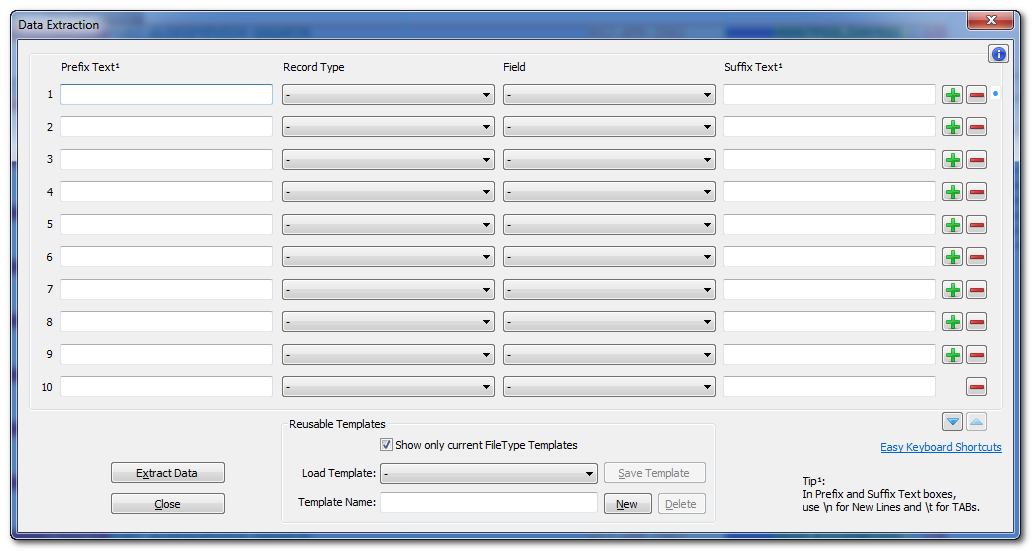
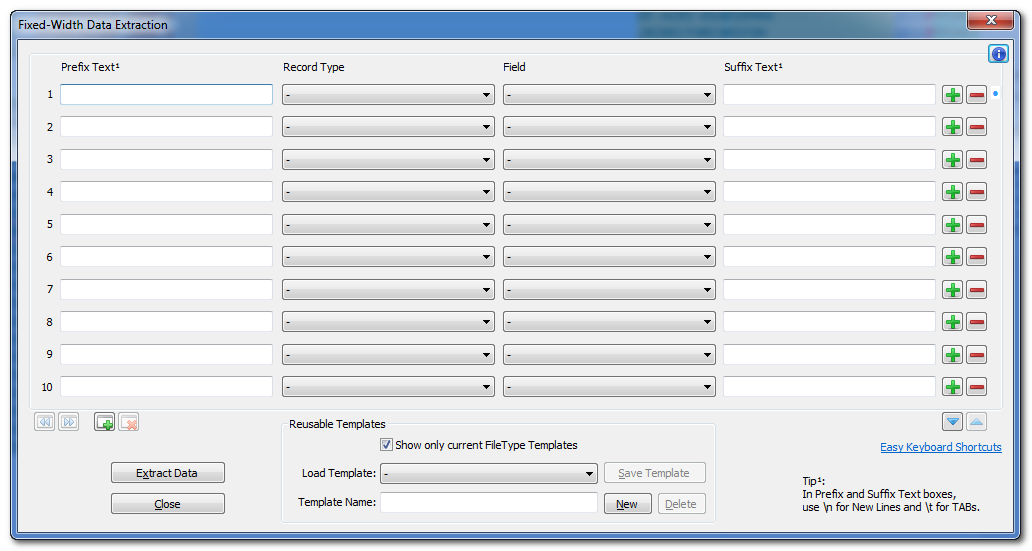
Updating docs & images for Data Extraction dialog

diff --git a/docs/data_extract_dialog.md b/docs/data_extract_dialog.md
@@ -8,26 +8,38 @@ The field data can be optionally prefixed and suffixed by text labels, separator
 
 The _Data Extraction_ dialog is launched by clicking the _Data Extraction_ button that appears on the _FWDataViz_ panel when the currently open document has been visualized with a specific _File Type_ by the plugin.
 
+###### Caveats
+ * The data extraction performance is inversely proportional to the size of the fixed-width data file.
+ * The data extraction performance is also inversely proportional to the number of [_line items_](https://github.com/shriprem/FWDataViz/blob/master/docs/data_extract_dialog.md#line-items). Although the Data Extraction dialog will allow up to 30 line items, try limiting between 5 and 10 line items.
+
 ### Data Extraction dialog
 ![Data_Extraction_Dialog](https://raw.githubusercontent.com/shriprem/FWDataViz/master/images/data_extract_dialog.png)
 
 #### Line Items
-* The Data Extraction dialog currently allows 10 _Line Items_. In each line item, you can specify a _Prefix Text_, a _Record Type_, a _Field_, and a _Suffix Text_.
+* The Data Extraction dialog will allow up to 30 _Line Items_, _i.e.,_ 10 line items per [page](https://github.com/shriprem/FWDataViz/blob/master/docs/data_extract_dialog.md#line-item-pages) across 3 pages. In each line item, you can specify a _Prefix Text_, a _Record Type_, a _Field_, and a _Suffix Text_.
 * Only line items with a specified _Record Type_ and _Field_ are used for data extraction. _Prefix Text_ and _Suffix Text_ are optional.
 * The _Record Type_ is a dropdown list derived from the list of record types of the current document _File Type_.
 * The _Field_ is a dropdown list derived from the list of field types of the specified _Record Type_.
 * In _Prefix_ and _Suffix Text_ boxes, use `\n` for new lines and `\t` for TABs.
    * `\n` can be used to achieve a blank line separation between records or, preferably, a group of records.
    * `\t` can also be used at the start of a Prefix on the first field of a record type to achieve indentation for a hierarchical listing in the output data, as seen in the sample below.
-* Use the `+` and `-` buttons to insert or delete line items. Beware that using the `+` button to insert a line item will effectively delete the 10th line item.
+* Use the `+` button to insert a blank line item. The current line item and all others below it will shift down by a line. This action may also result in the addition of a new page if the last line item on the current page is not blank; but it will also effectively delete the 30th line item _i.e.,_ the last line item on the last allowed page.
+* Use the `-` button to delete the current line item. All line items below the current line item will shift up by one line. This action may also result in the deletion of a following page.
 * Use the up and down buttons at the bottom of the line items group box to reorder the line items.
-* Instead of clicking these buttons, you can also use [keyboard shortcuts](https://github.com/shriprem/FWDataViz/blob/master/docs/data_extract_key_shortcuts.md) for easy navigation and manipulation of line items.
+* Use [keyboard shortcuts](https://github.com/shriprem/FWDataViz/blob/master/docs/data_extract_key_shortcuts.md) for easier navigation and manipulation of line items.
+
+#### Line Item Pages
+* The current page number can be inferred from the sequence numbers preceding each line item.
+* The _Add Page_ button is disabled on the 3rd page _i.e.,_ the last allowed page.
+* The _Delete Page_ button is disabled on the 1st page.
+* Use [keyboard shortcuts](https://github.com/shriprem/FWDataViz/blob/master/docs/data_extract_key_shortcuts.md) for easier navigation and manipulation of pages.
 
 #### Reusable Templates
 You can save the specified line items as templates for future reuse. Each template is associated with its document _File Type_.
 ##### Saving
 * Templates will be saved into a common `Extractions.ini` configuration file in the `<NPP_Plugins_folder>/FWDataViz` folder.
 * Templates need to have unique names -- even for templates across different _File Types_. Reusing a name while saving a template will overwrite the previously exisiting template with the same name, reassociating the template with its current document _File Type_.
+* "[" and "]" characters are disallowed for template names.
 * When templates are saved, any totally blank line items in between are skipped. Only the non-blank line items wherein at least one of its _Prefix Text_, _Record Type_, _Field_ and _Suffix Text_ boxes have some specified value are saved into a template.
 ##### Loading
 * The _Load Template_ dropdown will by default list only the templates previously saved with the matching current document _File Type_.

diff --git a/docs/data_extract_key_shortcuts.md b/docs/data_extract_key_shortcuts.md
@@ -18,6 +18,11 @@
 | Swap the current line item with the one _below_ | CTRL+Down Arrow |
 | Insert a blank line item and shift the current and following line items down by one line | CTRL+Insert or CTRL+PLUS |
 | Delete the current line item and shift the following line items up by one line | CTRL+Delete or CTRL+MINUS |
+| **Page Navigation &amp; Management** |
+| Navigate to previous page | CTRL+PAGE UP |
+| Navigate to next page | CTRL+PAGE DOWN |
+| Add a new page | CTRL+SHIFT+Insert or CTRL+SHIFT+PLUS |
+| Delete current page | CTRL+SHIFT+Delete or CTRL+SHIFT+MINUS |
 
 
 See also: [Data Extraction dialog](https://github.com/shriprem/FWDataViz/blob/master/docs/data_extract_dialog.md)
